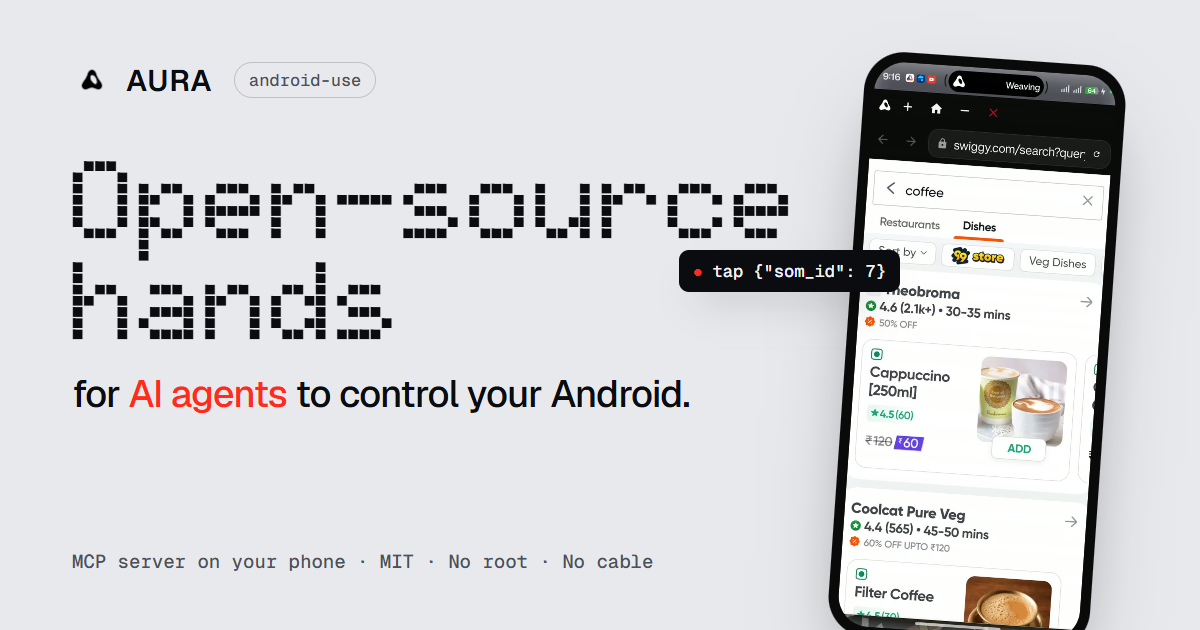
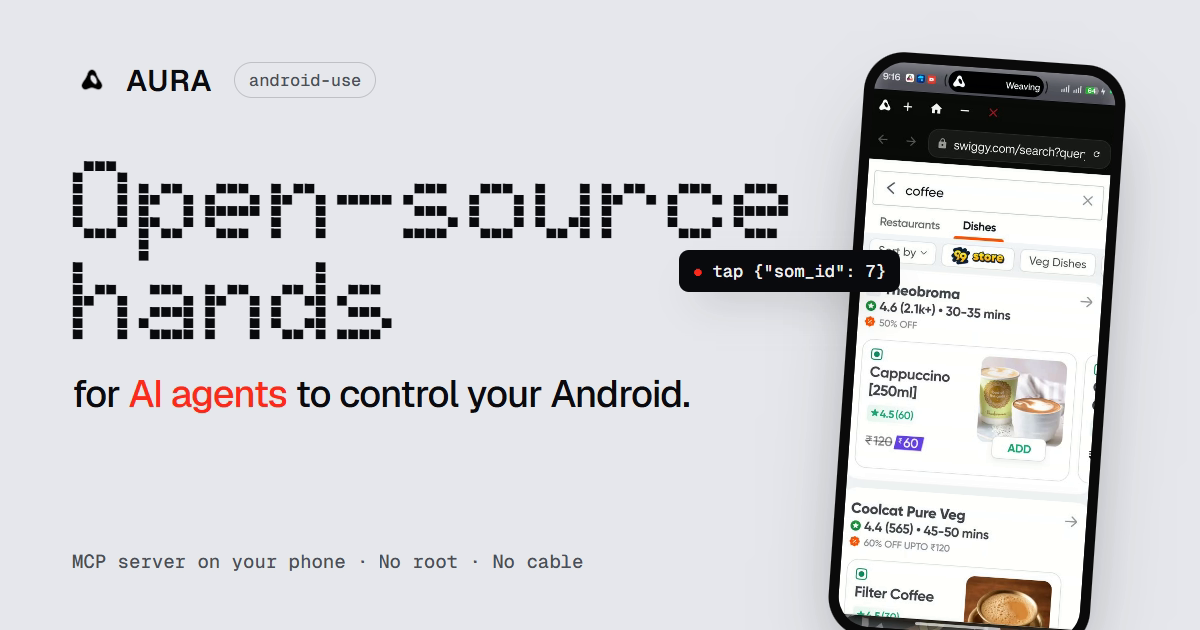
fix(site): say AGPL-3.0, not MIT
The app, agent and MCP server are AGPL-3.0; only aura-mcp-connect is MIT.
Fixes the meta and social descriptions, the structured-data licence,
two lines of page copy, the footer link, and the share card footer.

diff --git a/aura-android-use-website/index.html b/aura-android-use-website/index.html
@@ -18,16 +18,16 @@
 <meta property="og:site_name" content="AURA">
 <meta property="og:url" content="https://aura-android-use.vercel.app/">
 <meta property="og:title" content="AURA · Open-source hands for AI agents on Android">
-<meta property="og:description" content="An MCP server on your phone gives Claude, Cursor or any AI agent eyes and hands. Plus a voice agent. No root, no cable, no backend. MIT.">
+<meta property="og:description" content="An MCP server on your phone gives Claude, Cursor or any AI agent eyes and hands. Plus a voice agent. No root, no cable, no backend. Open source under AGPL-3.0.">
 <meta property="og:image" content="https://aura-android-use.vercel.app/og.png">
 <meta property="og:image:width" content="1200">
 <meta property="og:image:height" content="630">
 <meta property="og:image:alt" content="AURA: open-source hands for AI agents to control your Android.">
 <meta name="twitter:card" content="summary_large_image">
 <meta name="twitter:title" content="AURA · Open-source hands for AI agents on Android">
-<meta name="twitter:description" content="An MCP server on your phone gives Claude, Cursor or any AI agent eyes and hands. Plus a voice agent. No root, no cable, no backend. MIT.">
+<meta name="twitter:description" content="An MCP server on your phone gives Claude, Cursor or any AI agent eyes and hands. Plus a voice agent. No root, no cable, no backend. Open source under AGPL-3.0.">
 <meta name="twitter:image" content="https://aura-android-use.vercel.app/og.png">
-<script type="application/ld+json">{"@context":"https://schema.org","@type":"SoftwareApplication","name":"AURA","alternateName":"android-use","description":"Open-source android-use: an MCP server that runs on your Android phone and gives any AI agent eyes and hands, plus a voice agent built on the same server.","url":"https://aura-android-use.vercel.app/","applicationCategory":"UtilitiesApplication","operatingSystem":"Android 8.0+","license":"https://opensource.org/licenses/MIT","isAccessibleForFree":true,"offers":{"@type":"Offer","price":"0","priceCurrency":"USD"},"author":{"@type":"Person","name":"Dinesh"},"sameAs":["https://github.com/Dinesh210805/aura-android-use"]}</script>
+<script type="application/ld+json">{"@context":"https://schema.org","@type":"SoftwareApplication","name":"AURA","alternateName":"android-use","description":"Open-source android-use: an MCP server that runs on your Android phone and gives any AI agent eyes and hands, plus a voice agent built on the same server.","url":"https://aura-android-use.vercel.app/","applicationCategory":"UtilitiesApplication","operatingSystem":"Android 8.0+","license":"https://www.gnu.org/licenses/agpl-3.0.html","isAccessibleForFree":true,"offers":{"@type":"Offer","price":"0","priceCurrency":"USD"},"author":{"@type":"Person","name":"Dinesh"},"sameAs":["https://github.com/Dinesh210805/aura-android-use"]}</script>
 <link rel="preconnect" href="https://fonts.googleapis.com">
 <link rel="preconnect" href="https://fonts.gstatic.com" crossorigin="">
 <link href="https://fonts.googleapis.com/css2?family=Doto:wght@500..900&family=Geist:wght@300..700&family=Geist+Mono:wght@400..600&display=swap" rel="stylesheet">
@@ -174,7 +174,7 @@ summary::-webkit-details-marker{display:none}
         <a href="/download" style="height:44px;padding:0 20px;border-radius:999px;border:1px solid var(--ink);display:inline-flex;align-items:center;gap:9px;font-size:15px;font-weight:500" style-hover="background:var(--chip);color:var(--ink)"><img src="logos/android.svg" alt="" width="16" height="16" style="display:block"> Download<span data-m="hide-sm"> for Android</span></a>
       </div>
     </div>
-    <div data-hero="" style="position:absolute;left:clamp(20px,3vw,40px);bottom:24px;font-size:13px;line-height:1.4;color:var(--ink2);max-width:260px">android-use, open source.<br>MIT · No root · No cable · No backend<br><span style="font-size:12px">Early, and built by one person.</span></div>
+    <div data-hero="" style="position:absolute;left:clamp(20px,3vw,40px);bottom:24px;font-size:13px;line-height:1.4;color:var(--ink2);max-width:260px">android-use, open source.<br>AGPL-3.0 · No root · No cable · No backend<br><span style="font-size:12px">Early, and built by one person.</span></div>
     <div data-hero="" data-m="hide-sm" aria-hidden="true" style="position:absolute;left:50%;bottom:22px;transform:translateX(-50%);width:min(520px,52vw);overflow:hidden;-webkit-mask-image:linear-gradient(90deg,transparent,#000 18%,#000 82%,transparent);mask-image:linear-gradient(90deg,transparent,#000 18%,#000 82%,transparent)">
       <div data-ticker="" style="overflow:hidden"><div style="display:flex;gap:18px;width:max-content;font-family:'Geist Mono',monospace;font-size:11.5px;color:var(--ink2);white-space:nowrap"><span>perceive_screen</span><span>tap</span><span>type_text</span><span>swipe</span><span>verify_action</span><span>launch_app</span><span>open_deeplink</span><span>browser_open</span><span>browser_act</span><span>read_notifications</span><span>media_control</span><span>resolve_contact</span><span>system_intent</span><span>scroll_to</span><span>wait_for</span><span>web_search</span><span>· 56 tools ·</span></div></div>
     </div>
@@ -247,7 +247,7 @@ summary::-webkit-details-marker{display:none}
 
     <div data-cap="8" style="position:absolute;left:clamp(20px,6vw,96px);bottom:clamp(64px,11svh,130px);width:min(460px,calc(100vw - 40px));opacity:0;visibility:hidden">
       <h2 style="margin:0;font-family:Doto,monospace;font-weight:850;font-size:clamp(42px,5.4vw,90px);line-height:.92;letter-spacing:-.01em">Read every line.</h2>
-      <p style="margin:18px 0 0;font-size:clamp(16px,1.25vw,19px);line-height:1.45;color:var(--ink2);max-width:36ch">The app, the agent and the MCP server are all open. MIT licensed.</p>
+      <p style="margin:18px 0 0;font-size:clamp(16px,1.25vw,19px);line-height:1.45;color:var(--ink2);max-width:36ch">The app, the agent and the MCP server are all open source, under the AGPL-3.0.</p>
       <div style="display:flex;flex-wrap:wrap;gap:10px;margin-top:22px">
         <a href="https://github.com/Dinesh210805/aura-android-use" rel="noopener" style="height:44px;padding:0 18px;border-radius:999px;background:var(--ink);color:var(--paper);display:inline-flex;align-items:center;font-size:15px;font-weight:500" style-hover="color:var(--paper);opacity:.86">★ Star on GitHub</a>
         <a href="#contribute" style="height:44px;padding:0 18px;border-radius:999px;border:1px solid var(--ink);display:inline-flex;align-items:center;font-size:15px;font-weight:500" style-hover="background:var(--chip);color:var(--ink)">Contribute</a>
@@ -626,7 +626,7 @@ summary::-webkit-details-marker{display:none}
       <nav aria-label="Product"><h3 style="margin:0 0 14px;font-family:'Geist Mono',monospace;font-size:11.5px;font-weight:500;color:var(--ink2)">Product</h3><ul style="list-style:none;margin:0;padding:0;display:grid;gap:10px;font-size:14px"><li><a href="/download">Download</a></li><li><a href="#tools">Tools</a></li><li><a href="#testing">App testing</a></li><li><a href="#safety">Safety</a></li><li><a href="#film">Launch film</a></li></ul></nav>
       <nav aria-label="Developers"><h3 style="margin:0 0 14px;font-family:'Geist Mono',monospace;font-size:11.5px;font-weight:500;color:var(--ink2)">Developers</h3><ul style="list-style:none;margin:0;padding:0;display:grid;gap:10px;font-size:14px"><li><a href="https://github.com/Dinesh210805/aura-android-use" rel="noopener">GitHub</a></li><li><a href="https://github.com/Dinesh210805/aura-android-use/blob/main/docs/CONNECT-GUIDE.md" rel="noopener">Docs</a></li><li><a href="https://www.npmjs.com/package/aura-mcp-connect" rel="noopener">aura-mcp-connect</a></li><li><a href="https://github.com/Dinesh210805/aura-releases/releases" rel="noopener">Releases</a></li></ul></nav>
       <nav aria-label="Community"><h3 style="margin:0 0 14px;font-family:'Geist Mono',monospace;font-size:11.5px;font-weight:500;color:var(--ink2)">Community</h3><ul style="list-style:none;margin:0;padding:0;display:grid;gap:10px;font-size:14px"><li><a href="https://discord.com/invite/H66ws9zMPF" rel="noopener">Discord</a></li><li><a href="https://github.com/Dinesh210805/aura-android-use/issues" rel="noopener">Issues</a></li><li><a href="mailto:dinesh210805@gmail.com">Contact</a></li></ul></nav>
-      <nav aria-label="Legal"><h3 style="margin:0 0 14px;font-family:'Geist Mono',monospace;font-size:11.5px;font-weight:500;color:var(--ink2)">Legal</h3><ul style="list-style:none;margin:0;padding:0;display:grid;gap:10px;font-size:14px"><li><a href="https://dinesh210805.github.io/aura-app/privacy.html" rel="noopener">Privacy</a></li><li><a href="https://dinesh210805.github.io/aura-app/privacy.html#terms" rel="noopener">Terms</a></li><li><a href="https://github.com/Dinesh210805/aura-android-use/blob/main/LICENSE" rel="noopener">MIT License</a></li></ul></nav>
+      <nav aria-label="Legal"><h3 style="margin:0 0 14px;font-family:'Geist Mono',monospace;font-size:11.5px;font-weight:500;color:var(--ink2)">Legal</h3><ul style="list-style:none;margin:0;padding:0;display:grid;gap:10px;font-size:14px"><li><a href="https://dinesh210805.github.io/aura-app/privacy.html" rel="noopener">Privacy</a></li><li><a href="https://dinesh210805.github.io/aura-app/privacy.html#terms" rel="noopener">Terms</a></li><li><a href="https://github.com/Dinesh210805/aura-android-use/blob/main/LICENSE" rel="noopener">AGPL-3.0 License</a></li></ul></nav>
     </div>
     <div style="margin-top:48px;padding-top:20px;border-top:1px solid var(--line);display:flex;flex-wrap:wrap;justify-content:space-between;gap:10px;font-family:'Geist Mono',monospace;font-size:11.5px;color:var(--ink2)">
       <span>© 2026 AURA. Built in India by one person, Dinesh. Early software: it can break.</span>
